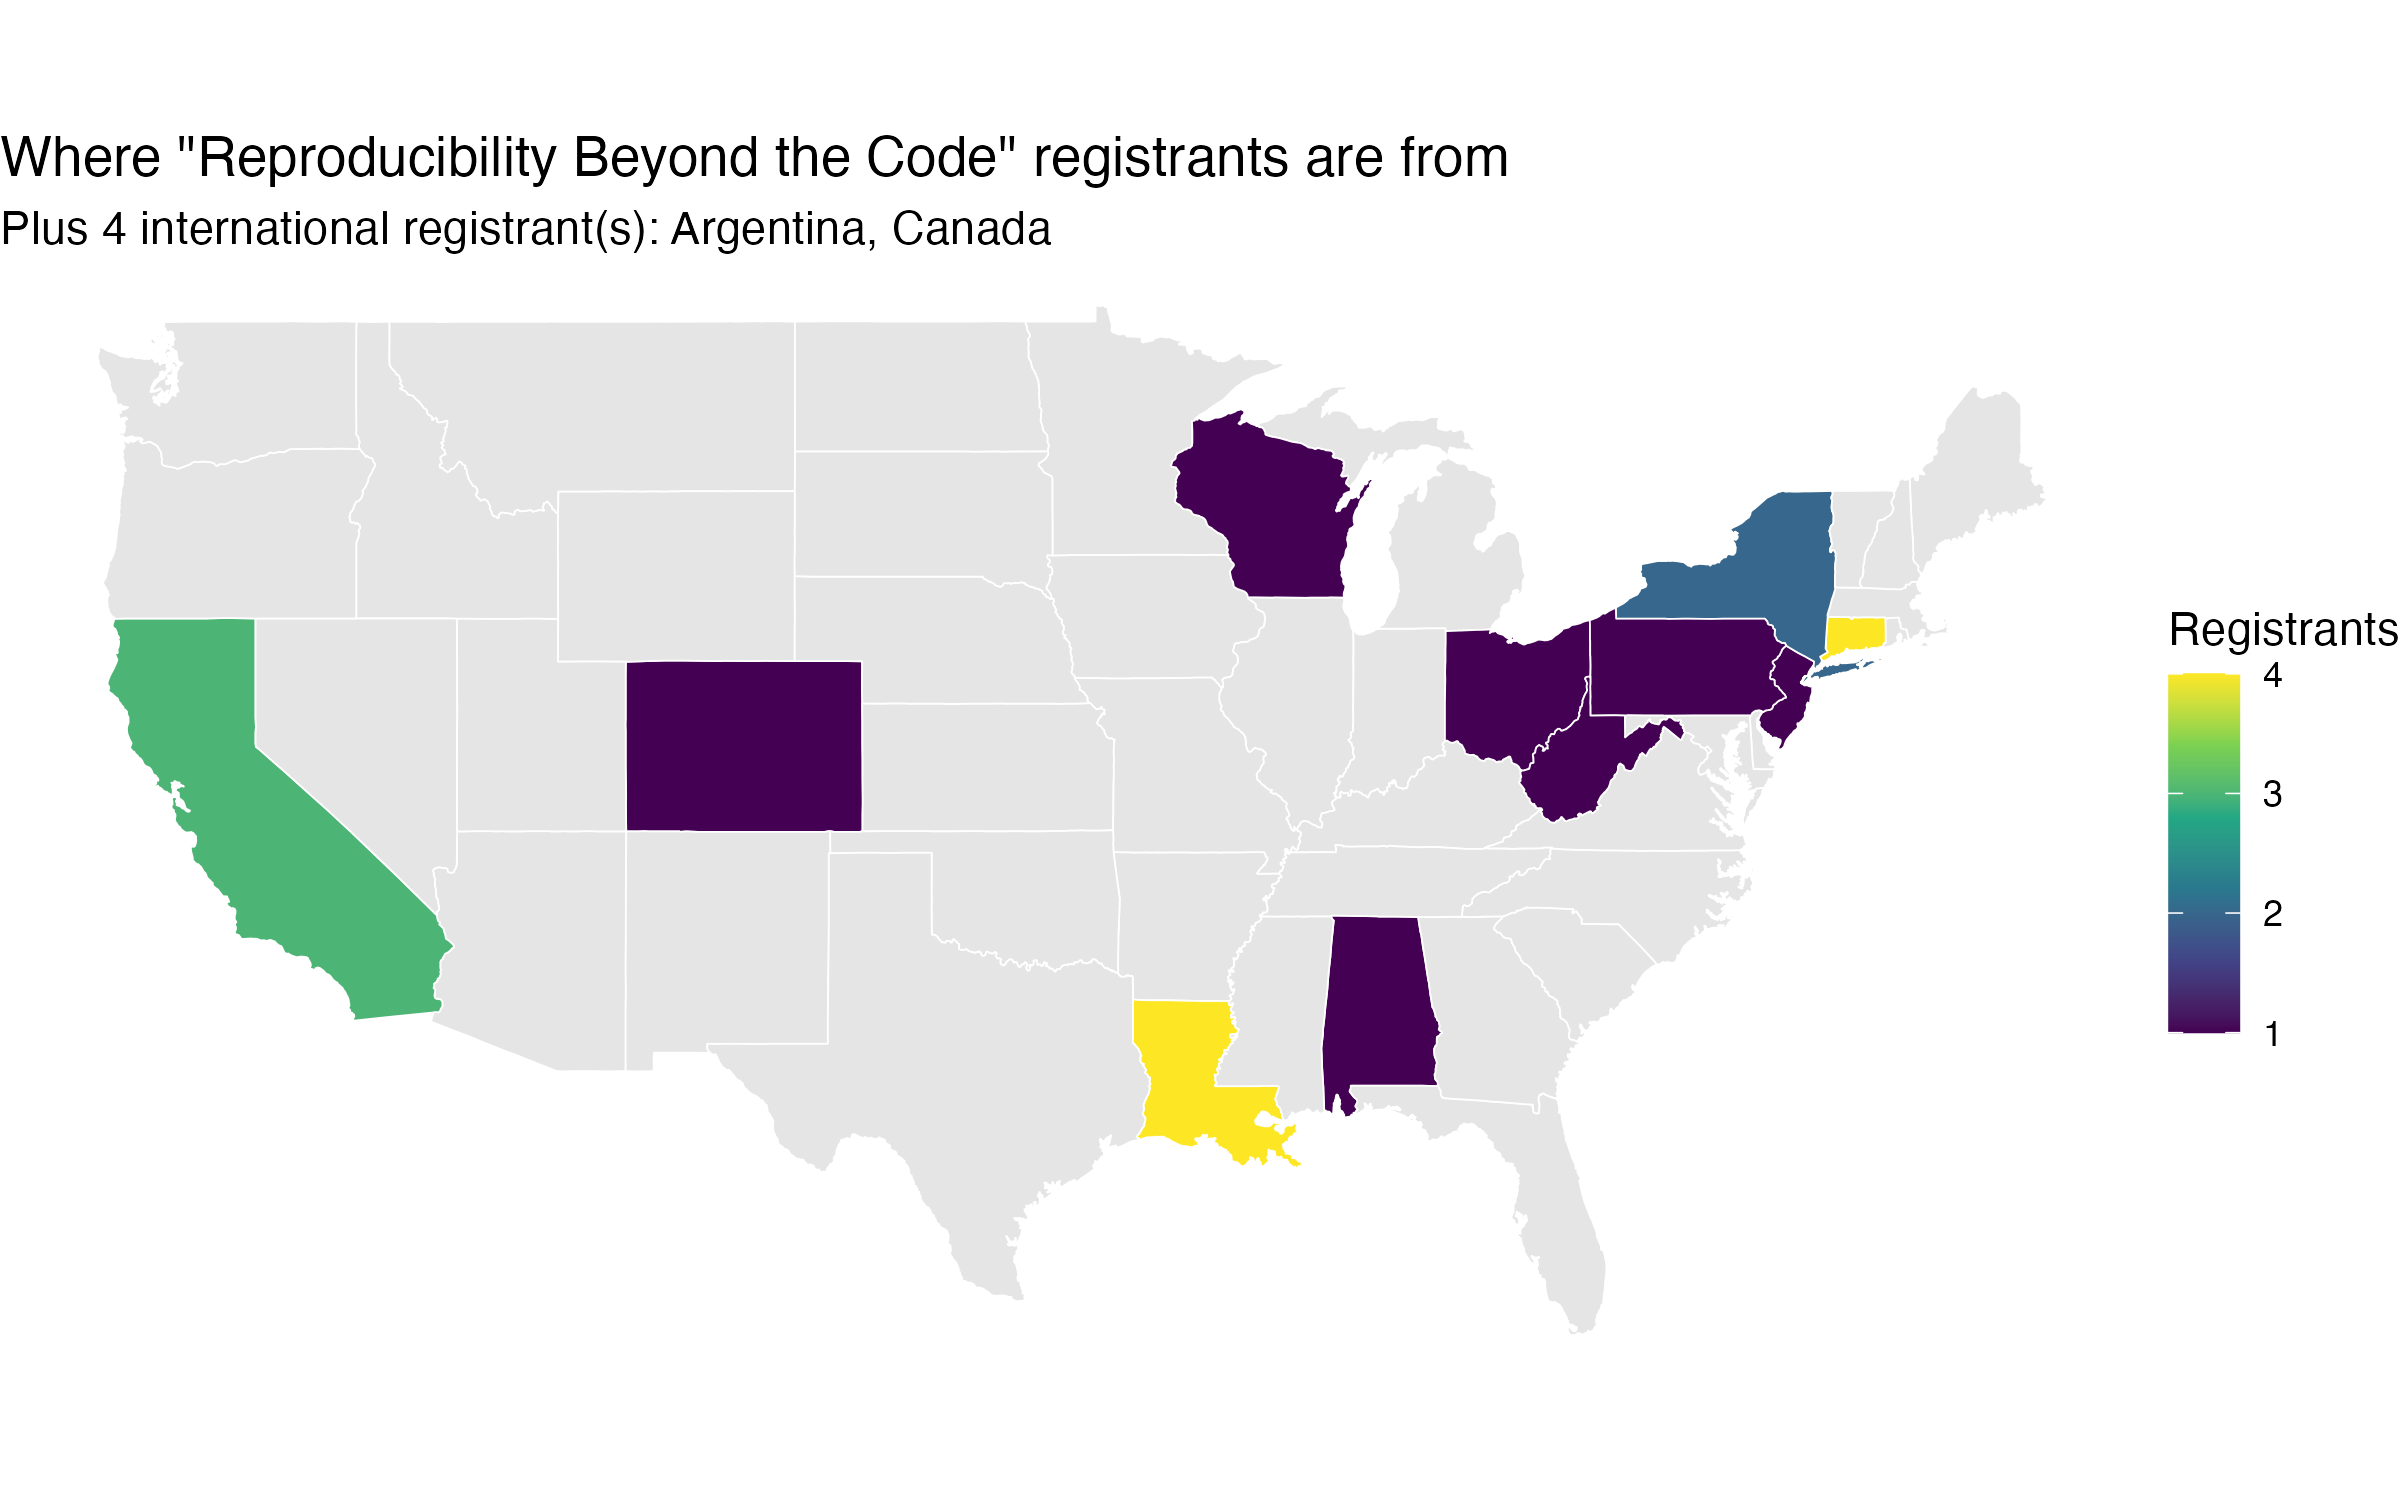
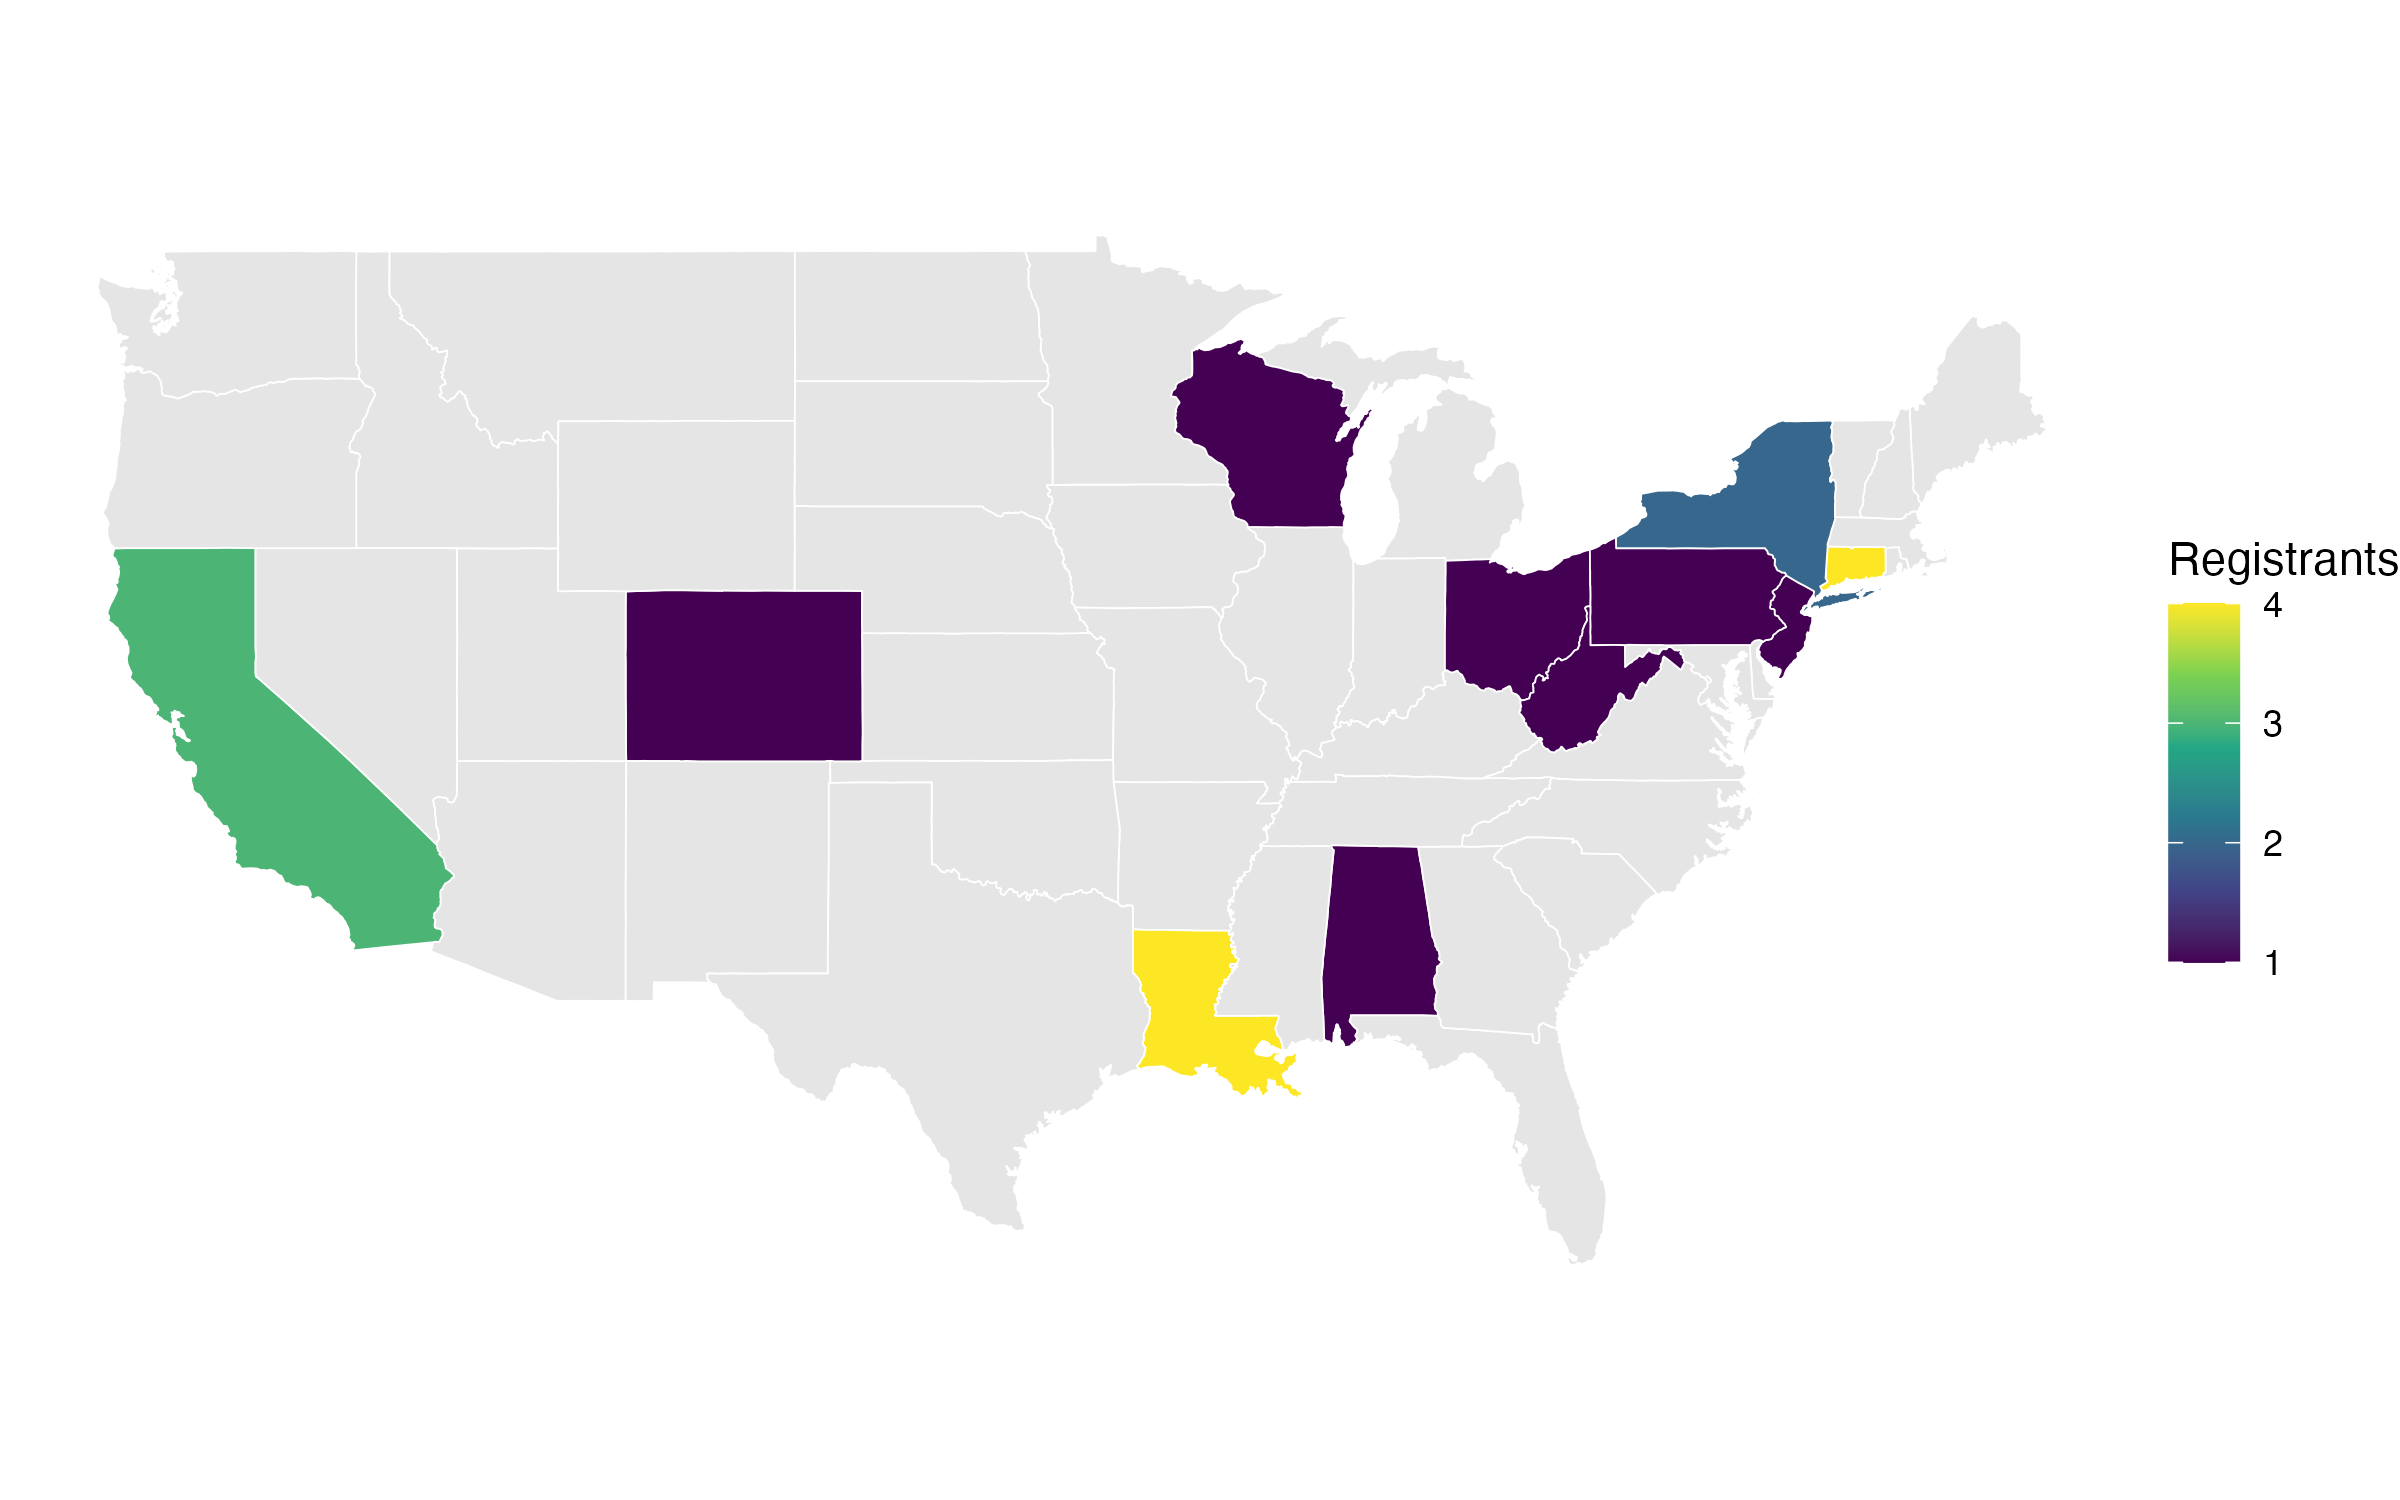
Split wrangling out of the map script; add beamer; drop email script
- build_registrant_map.R now only reads the committed public CSV, so
  it's reproducible from this repo alone. The raw-xlsx wrangling that
  used to precede the export lives in the new, gitignored
  Scripts/00_wrangling.R instead (it can't run without the local-only
  registrant workbook).
- Replace dplyr::transmute() with mutate() + select().
- Add a beamer (Metropolis theme) target alongside revealjs in
  slides.qmd -- verified LaTeX/beamer render locally.
- Remove extract_emails.R: not needed by workshop participants, and
  the real-email output it produced was never committed anyway.
- README usage section now reflects what's actually reproducible from
  the repo vs. the local-only wrangling step.

diff --git a/README.md b/README.md
@@ -1,73 +1,40 @@
-# Reproducibility Beyond the Code
+---
 
-Materials for a 4-hour workshop at the AOS (American Ornithological Society)
-2026 conference: **"Reproducibility beyond the code – organizing research
-projects in R."**
+editor_options: 
+  markdown: 
+    wrap: 72
+---
 
-Taught by Aaron Skinner, PhD candidate, University of British Columbia.
+# Reproducibility Beyond the Code – organizing research projects in R
 
 ## What this workshop covers
 
-Reproducibility is now a baseline expectation in scientific research, yet
-many projects fall short not because of complex analyses, but because they
-lack clear structure, documentation, and organization. This workshop covers:
+Reproducibility is now a baseline expectation in scientific research, yet many projects fall short because they lack clear structure, documentation, and organization. This workshop covers three broad themes:
 
-1. **Organizing R projects & repositories** — logical directory structure,
-   separating raw data / processed data / scripts / outputs, and writing
-   scripts that are readable and rerunnable.
-2. **Documentation** — effective READMEs and lightweight data dictionaries.
-3. **Git & GitHub** — version control basics, recovering earlier versions,
-   safely refactoring or deleting code, `.gitignore`, and GitHub as a tool
-   for meeting journal data/code-availability requirements.
+1.  **Organizing R projects & repositories** — logical directory structure, separating raw data / processed data / scripts / outputs, and writing scripts that are readable and rerunnable.
+2.  **Documentation** — effective READMEs and lightweight data dictionaries.
+3.  **Git & GitHub** — version control basics, recovering earlier versions, safely refactoring or deleting code, `.gitignore`, and GitHub as a tool for meeting journal data/code-availability requirements.
 
-No prior Git or R experience is required — just basic familiarity with
-research and data analysis. This repository is itself organized the way the
-workshop teaches, so it doubles as a live example.
+No prior Git or R experience is required, but basic familiarity with research and data analysis is assumed.
 
 ## Repository structure
 
-```
-Data/       # raw, unmodified source data
+```         
+Data/       # raw, unmodified source data (gitignored)
 Derived/    # outputs generated by scripts (recreatable, gitignored)
 Figures/    # saved plots (gitignored unless a static/final asset)
 Scripts/    # analysis code
-  qmd/      # Quarto manuscript/slide files
+  qmd/      # Quarto slides
 ```
 
-## Worked example: registrant data
+## Usage
 
-`Data/` holds the raw AOS 2026 registrant workbook — real names, emails, and
-addresses for everyone who registered across *all* AOS 2026 workshops. That
-raw file is gitignored (`*.xlsx`) and never committed; it's PII collected for
-conference registration, not for publication.
+`01_registrant_map.R` and `qmd/02_slides.qmd` are fully reproducible from what's in this repo. `00_wrangling.R` is listed for context but isn't included — it reads the raw registrant workbook, which is gitignored because it contains real names, emails, and addresses.
 
-Two scripts in `Scripts/` work from it as a live data-cleaning example:
-
-- `extract_emails.R` — pulls name + email for this workshop's registrants and
-  validates email format. Its output (`Derived/registrant_emails.csv`) stays
-  local like the source file — real emails are never committed.
-- `build_registrant_map.R` — builds an anonymized location dataset (first
-  name + last initial, city/state/country — no email, no full last name, no
-  address) and plots a US state choropleth of where registrants are from.
-  Both outputs *are* committed, as the specific, deliberate exceptions to the
-  otherwise-gitignored `Derived/` and `Figures/` folders:
-  - `Derived/registrants_public.csv`
-  - `Figures/registrants_map.png`
-
-This pair is meant to model the workshop's own lesson: decide, file by file,
-what should and shouldn't be tracked — rather than defaulting either to
-"commit everything" or "gitignore the whole folder."
-
-## Slides
-
-Slides are written in [Quarto](https://quarto.org) (`Scripts/qmd/slides.qmd`)
-and render to reveal.js HTML:
-
-```bash
-quarto render Scripts/qmd/slides.qmd
-```
+- `00_wrangling.R` (local only, not in this repo) - Creates the anonymized, shareable location dataset (first name + last initial, city/state/country) from the raw registrant workbook
+- `01_registrant_map.R` — Reads that dataset and plots a US state choropleth of where registrants are from
+- `qmd/02_slides.qmd` - Slides written in Quarto
 
 ## License
 
-Workshop materials (slides, scripts) are shared for reuse and adaptation —
-feel free to draw on them for your own teaching, with attribution.
+Workshop materials are shared for reuse and adaptation.